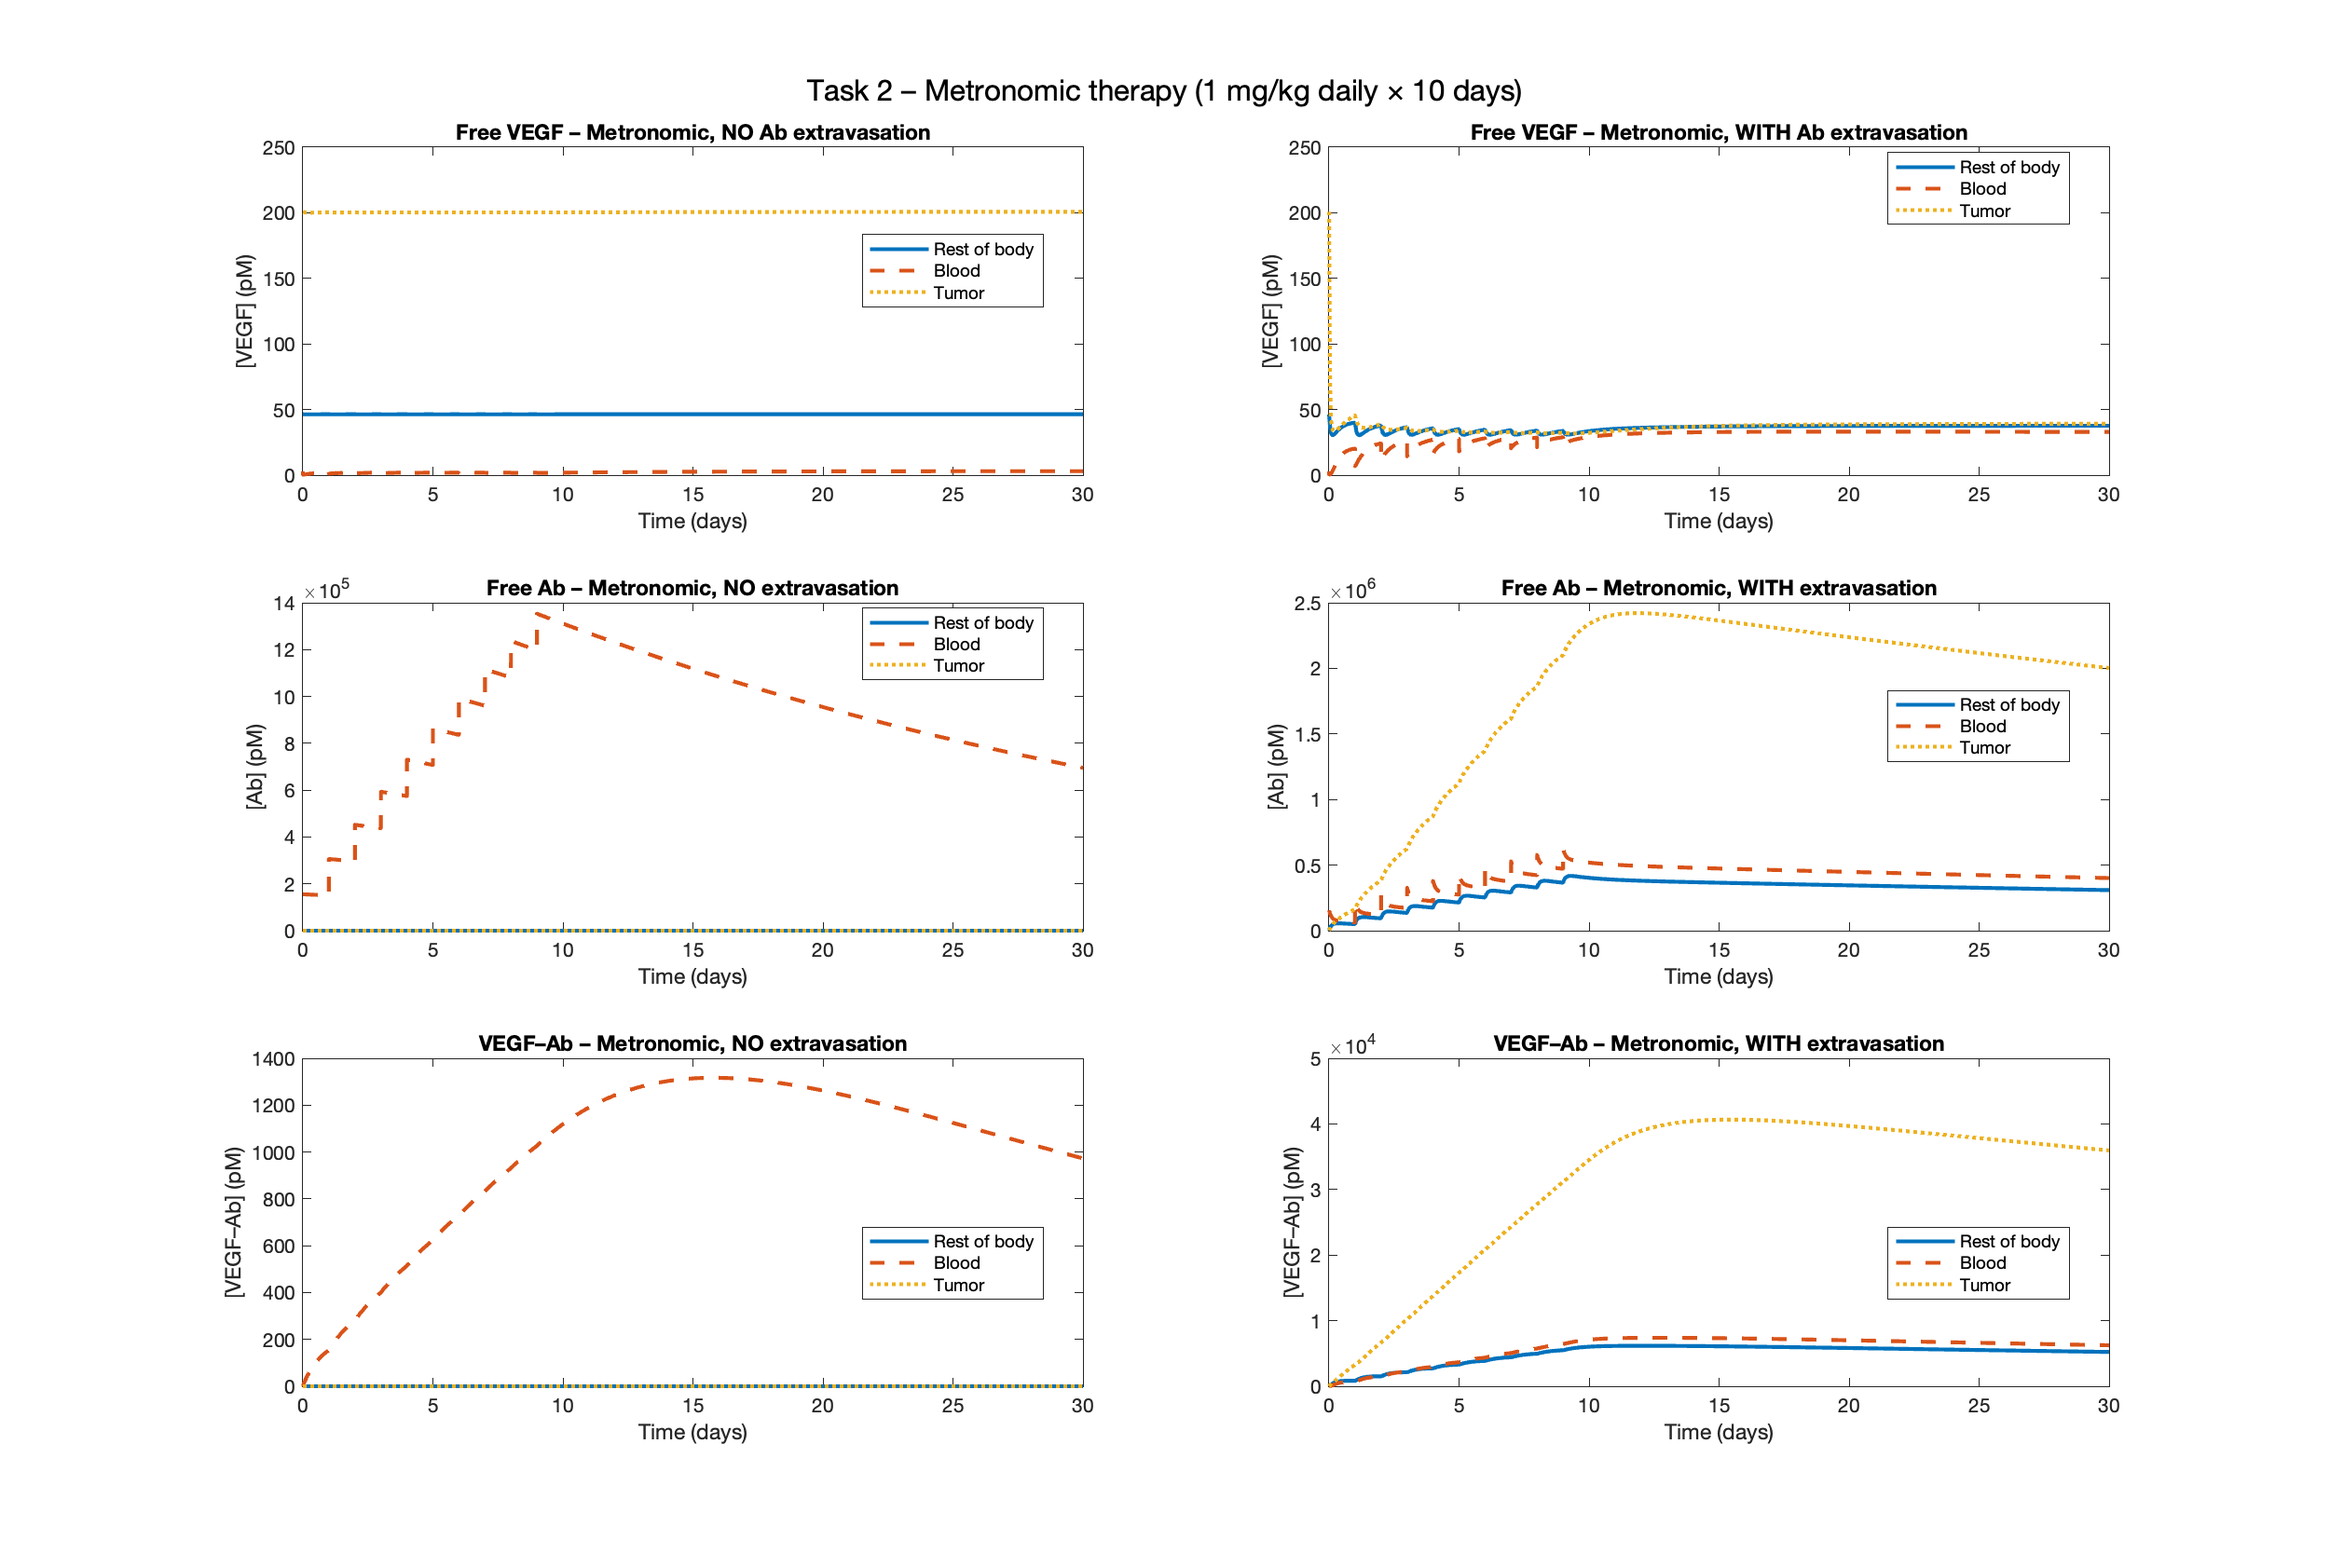
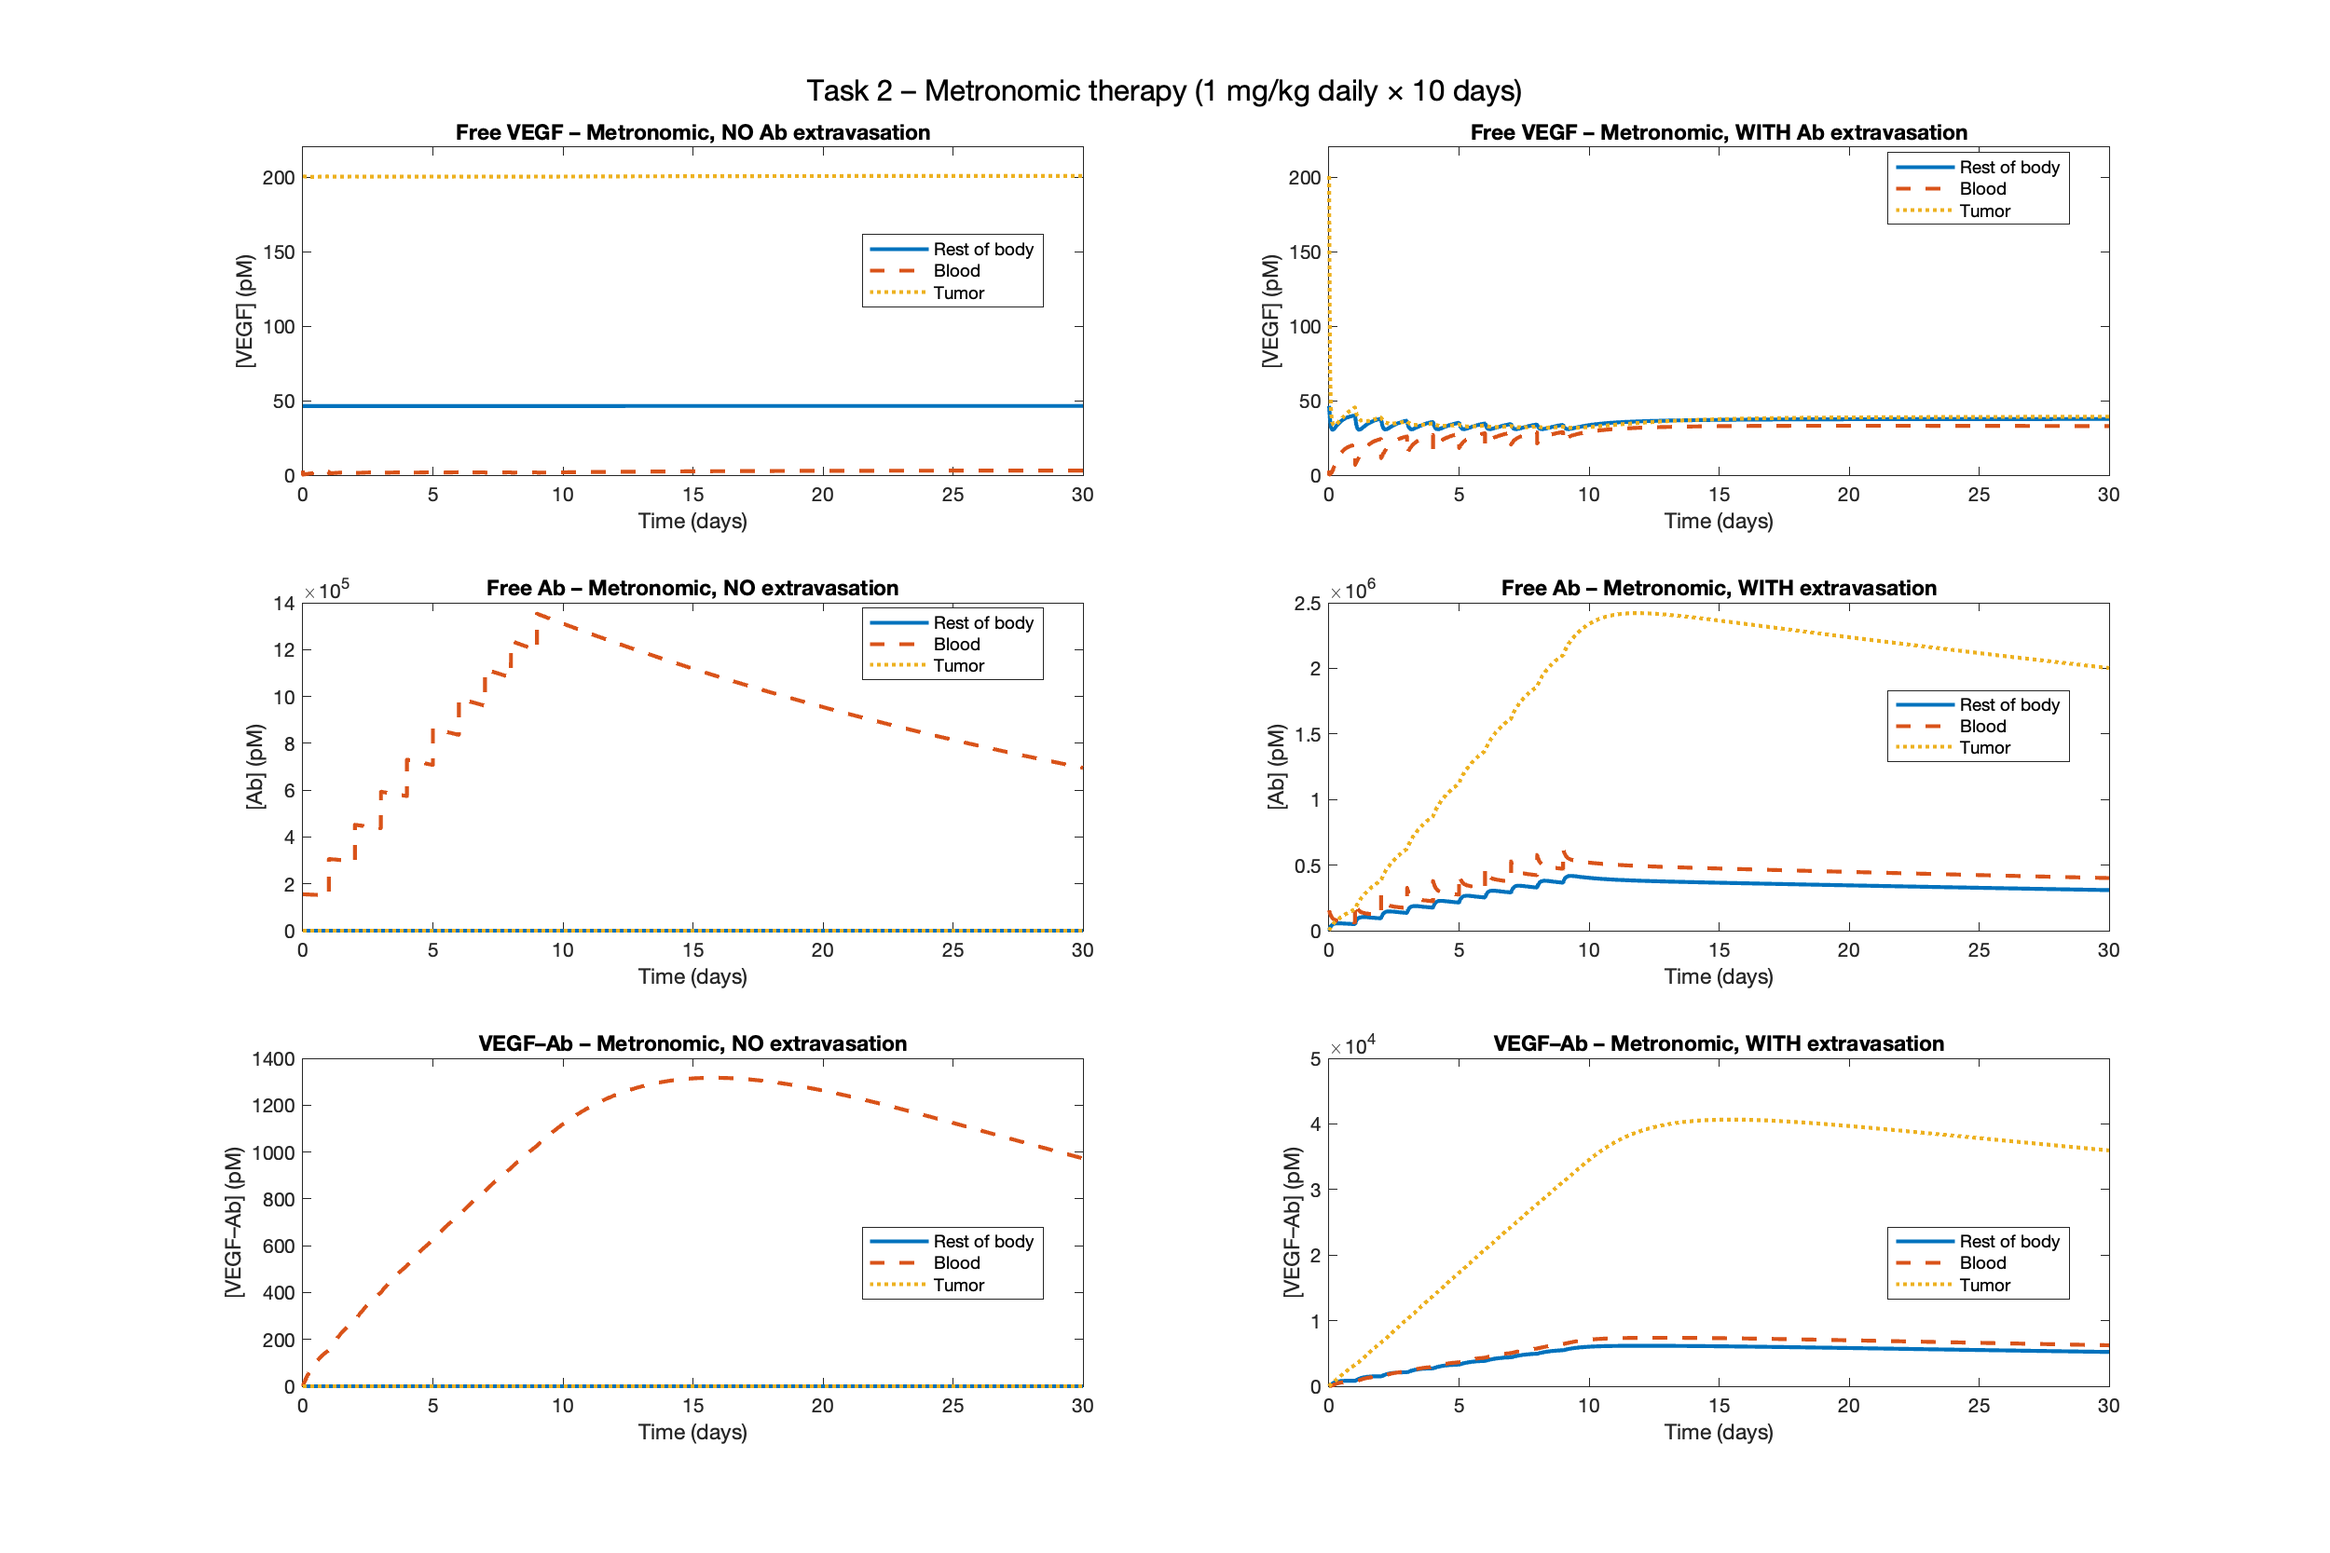
push the scale

Changed region(s): [[0.5616, 0.2496, 0.9048, 0.3119], [0.1248, 0.2496, 0.468, 0.2807]]

diff --git a/project_3/task2_metronomic.m b/project_3/task2_metronomic.m
@@ -129,6 +129,7 @@ function task2_metronomic
     title('Free VEGF – Metronomic, NO Ab extravasation');
     xlabel('Time (days)'); ylabel('[VEGF] (pM)');
     legend({'Rest of body','Blood','Tumor'}, 'Location','best');
+    ylim([0 220])
 
     subplot(3,2,2);
     plot(t_Ex_days, Y_Ex(:,n.VEGF_r), '-',  ...
@@ -137,6 +138,7 @@ function task2_metronomic
     title('Free VEGF – Metronomic, WITH Ab extravasation');
     xlabel('Time (days)'); ylabel('[VEGF] (pM)');
     legend({'Rest of body','Blood','Tumor'}, 'Location','best');
+    ylim([0 220])
 
     subplot(3,2,3);
     plot(t_noEx_days, Y_noEx(:,n.Ab_r), '-',  ...
